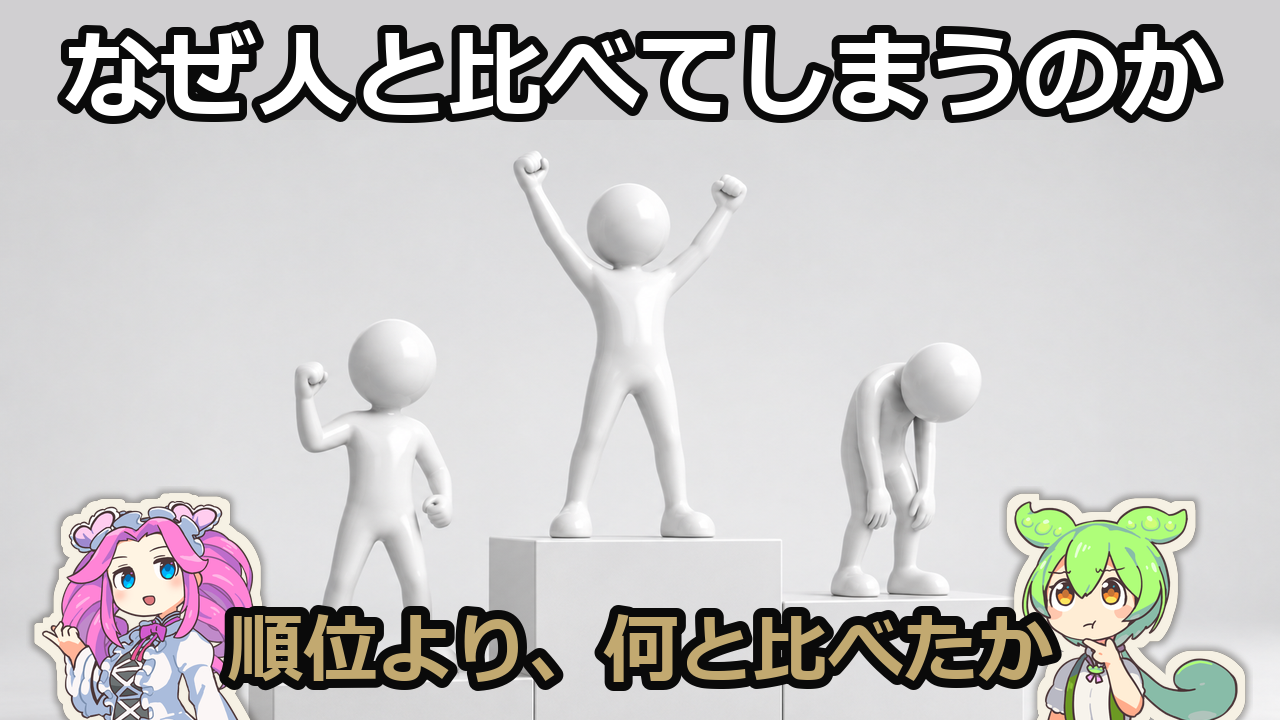
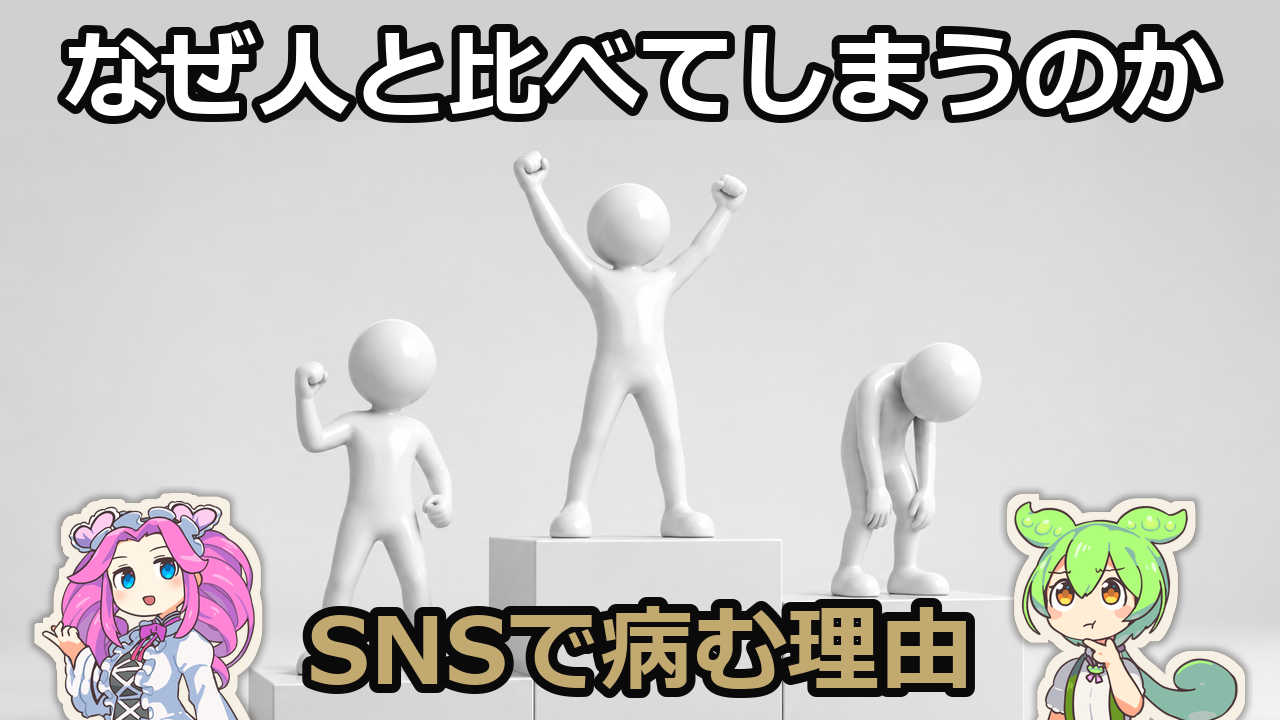
比較（紙芝居版）: サムネは F を採用、下帯を「SNSで病む理由」に変更し kKZfpeZ1awo へ適用（ユーザー選択） #38

Changed region(s): [[0.1562, 0.825, 0.8438, 0.9778]]

diff --git a/publish/20260913-comparison-kamishibai/make_thumbs_def.py b/publish/20260913-comparison-kamishibai/make_thumbs_def.py
@@ -51,7 +51,7 @@ TITLE_TOP = "なぜ人と比べてしまうのか"
 VARIANTS = [
     ("bg-D.png", "2位はなぜ落ち込むのか", "thumb-D.png", "thinking", "confused"),
     ("bg-E.png", "比べるのはやめられない", "thumb-E.png", "serious", "sad"),
-    ("bg-F.png", "順位より、何と比べたか", "thumb-F.png", "explain", "thinking"),
+    ("bg-F.png", "SNSで病む理由", "thumb-F.png", "explain", "thinking"),  # 採用案（ユーザー選択 2026-09-16。旧文言「順位より、何と比べたか」）
 ]
 
 # 上帯（タイトル文言を置く領域）の下端。背景の「一番上の人物（1位の拳）」の頂点を

diff --git a/publish/20260913-comparison-kamishibai/upload-record.md b/publish/20260913-comparison-kamishibai/upload-record.md
@@ -10,7 +10,7 @@ Issue #38。
 | 2026-09-13 | v3 | IsCddwR1n4c | **削除済み**（v4 差し替え後、2026-09-15） | 17:58（終了カード込み）。試写 FB「AI 独特の表現」→ 台本 v4（§9 に従い全編書き直し。骨組みの宣言・対句・読点刻み・理論名の先出し・主語のない要約を除去）。readings に銀の方が上／一場面を追加。サムネ **A（暫定）**、字幕 ja、概要欄 description-v2.txt（章 10、v3 timeline）。 |
 | 2026-09-15 | v4 | JUBUuewqqrQ | **削除済み**（v5 差し替え後、2026-09-15） | 16:03（終了カード込み）。試写 FB「前段が長い」→ 台本 v5（S1・S2 を統合、前段 53 秒で最初の章へ。9 シーン・5,124 字）。サムネ **A（暫定）**、字幕 ja、概要欄 description-v2.txt（章 9、v4 timeline）。 |
 | 2026-09-15 | v5 | Hx_xKN5YM8A | **削除済み**（v6 差し替え後、2026-09-16） | 15:25（終了カード込み）。試写 FB 3（内容の議論）→ 台本 v6: 銀メダルの章を「順位がよければ、楽になるのか」に論理修正、結びに「なぜ比べてしまうのか」の答え（板）、How を「目盛りのあるものを持つ」「一人に絞って聞く（会うのが一番）」の 2 つに、後段を 2 分強に。9 シーン・4,904 字。サムネ **A（暫定）**、字幕 ja、概要欄 description-v2.txt（章 9、v5 timeline）。 |
-| 2026-09-16 | v6 | kKZfpeZ1awo | **非公開（試写用）** | 15:22（終了カード込み）。台本 v7: ユーザーの GitHub 直編集（逸話の固有情報を一般化、限定の削除、金銀→1 位 2 位、身長の問答化、セクション名の中立化）＋ S8 の根拠を Liu 2023（久しぶりの友人への連絡）に差し替え。9 シーン・4,911 字。サムネ **A（暫定）**、字幕 ja、概要欄 description-v2.txt（章 9、v6 timeline）。 |
+| 2026-09-16 | v6 | kKZfpeZ1awo | **非公開（試写用）** | 15:22（終了カード込み）。台本 v7: ユーザーの GitHub 直編集（逸話の固有情報を一般化、限定の削除、金銀→1 位 2 位、身長の問答化、セクション名の中立化）＋ S8 の根拠を Liu 2023（久しぶりの友人への連絡）に差し替え。9 シーン・4,911 字。サムネ **A（暫定）→ 2026-09-16 18:59 に F（`thumb-F.png`、下帯「SNSで病む理由」）へ thumbnails.set で差し替え済み**、字幕 ja、概要欄 description-v2.txt（章 9、v6 timeline）。 |
 
 - 概要欄: `description-v1.txt`（`__CHAPTERS__` はレンダ後に `fill_chapters.py` 相当の手順で
   timeline.json から章時刻を埋めて `description-v2.txt` に書き出す）。タグ: `tags.txt`。
@@ -18,4 +18,11 @@ Issue #38。
   生成・合成スクリプトは `make_thumbs.py`。背景の生成元は `thumb-bg/orig/bg-{1,2,3}-raw.png`
   （Codex 生成、`thumb-bg/bg-{1,2,3}.png` が合成に使った作業用コピー）。
   採用案・確定後の下帯文言はユーザー選択後にここへ追記する。
+- 第 2 弾として白い 3D 棒人間の表彰台（ユーザー提案、Codex 生成 `thumb-bg/orig/bg-{D,E,F}-raw.png`）
+  の `thumb-D/D2/E/F.png` と、立ち絵を小さくした `thumb-D-s/D2-s/E-s.png` を `make_thumbs_def.py` で合成。
+  背景は縮小せず横幅いっぱいに置き、1 位の拳の頂点を上帯の下端に合わせる（下帯の文字とは重ねてよい。
+  2026-09-16 ユーザー指示）。
+- **採用: F**（1 位・3 位は喜び、2 位だけうなだれる 3 人だけの表彰台。4 人目なし）。下帯の文言は
+  ユーザー指定で「**SNSで病む理由**」（上帯「なぜ人と比べてしまうのか」）。「？」は付けない。
+  2026-09-16 に kKZfpeZ1awo へ `youtube_manage.py set-thumbnail` で適用済み（再アップロードなし）。
 - レンダ完了後、`--end-card` を付けて終了カードを含めること（前作からの申し送り）。
